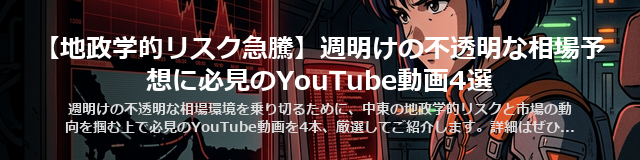
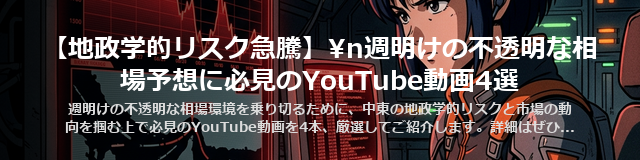
Fix thumbnail title line break and maintain center alignment

Changed region(s): [[0.0625, 0.2188, 0.9688, 0.375], [0.1875, 0.4062, 0.8125, 0.5938]]

diff --git a/data/articles.ts b/data/articles.ts
@@ -11,7 +11,7 @@ export interface Article {
 export const articles: Article[] = [
   {
     id: 'youtube-market-outlook-20260301',
-    title: '【地政学的リスク急騰】週明けの不透明な相場予想に必見のYouTube動画4選',
+    title: '【地政学的リスク急騰】\n週明けの不透明な相場予想に必見のYouTube動画4選',
     date: '2026/03/01',
     thumbnail: '/images/youtube-market-outlook-20260301_60.png',
     tags: ['FX', '相場展望', 'YouTube', '地政学的リスク', '原油'],
@@ -19,6 +19,11 @@ export const articles: Article[] = [
       <p class="intro">
         週明けの不透明な相場環境を乗り切るために、中東の地政学的リスクと市場の動向を掴む上で必見のYouTube動画を4本、厳選してご紹介します。詳細はぜひ各動画を検索してご確認ください！
       </p>
+
+      <div style="text-align: center; margin: 24px 0;">
+        <img src="/images/youtube-market-outlook-20260301_60.png" alt="【地政学的リスク急騰】
+週明けの不透明な相場予想に必見のYouTube動画4選" style="max-width: 100%; height: auto; border-radius: 8px; box-shadow: 0 4px 6px rgba(0,0,0,0.1);" />
+      </div>
 
 
 

diff --git a/pages/articles/[id].tsx b/pages/articles/[id].tsx
@@ -136,8 +136,9 @@ export default function ArticlePage({ article }: ArticlePageProps) {
         .article-title {
           font-size: 28px;
           color: #1f2937;
-          margin-top: 8px;
-          margin-bottom: 12px;
+          margin-bottom: 20px;
+          line-height: 1.3;
+          white-space: pre-wrap;
         }
         .article-tags {
           display: flex;

diff --git a/scripts/crop_and_place_thumbnail.py b/scripts/crop_and_place_thumbnail.py
@@ -61,21 +61,26 @@ def crop_and_resize(input_path, output_path, title="", subtitle=""):
 
     # --- Helper for text wrapping (Japanese character optimized) ---
     def wrap_text(text, font, max_width):
-        lines = []
-        current_line = ""
-        # Simple heuristic: split by character, but try to avoid breaking before punctuation
-        chars = list(text)
-        for i, char in enumerate(chars):
-            test_line = current_line + char
-            w = draw.textlength(test_line, font=font)
-            if w <= max_width:
-                current_line = test_line
-            else:
-                lines.append(current_line)
-                current_line = char
-        if current_line:
-            lines.append(current_line)
-        return lines
+        # Support manual newlines
+        paragraphs = text.split('\n')
+        final_lines = []
+        
+        for p in paragraphs:
+            if not p:
+                continue
+            current_line = ""
+            chars = list(p)
+            for char in chars:
+                test_line = current_line + char
+                w = draw.textlength(test_line, font=font)
+                if w <= max_width:
+                    current_line = test_line
+                else:
+                    final_lines.append(current_line)
+                    current_line = char
+            if current_line:
+                final_lines.append(current_line)
+        return final_lines
 
     # Wrap Title
     title_max_width = TARGET_WIDTH * 0.9
